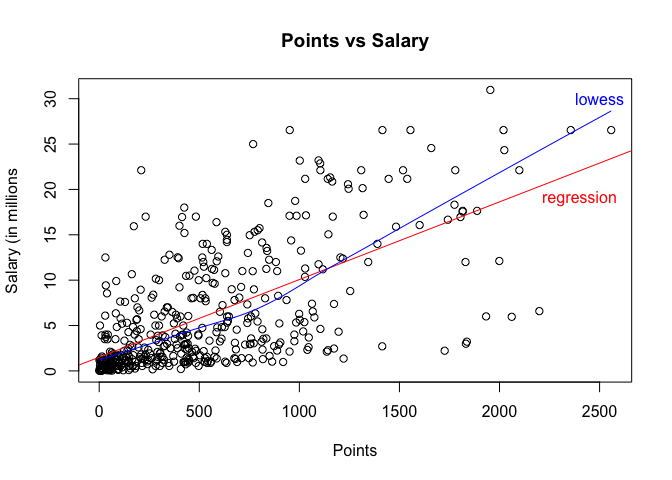
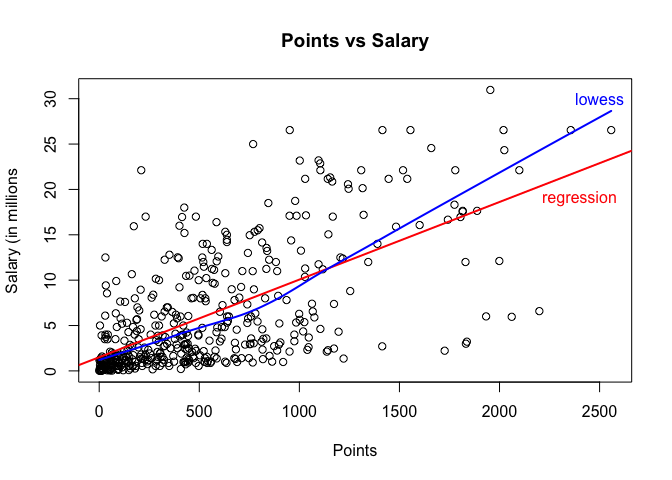
final

diff --git a/hw01/hw01-deborah-chang.md b/hw01/hw01-deborah-chang.md
@@ -2,13 +2,6 @@ HW01
 ================
 Deborah Chang
 
-```{r setup, include=FALSE}
-knitr::opts_chunk$set(error = TRUE)
-load("data/nba2017-salary-points.RData")
-# list available objects
-ls()
-library(scatterplot3d)
-```
 ### 1) A bit of data preprocessing
 
 ``` r
@@ -26,7 +19,7 @@ table(factored)
 ### 2) Scatterplot of Points and Salary
 
 ``` r
-plot(points, salaryMil, main = "Points vs Salary", xlab = "Points", ylab = "Salary")
+plot(points, salaryMil, main = "Points vs Salary", xlab = "Points", ylab = "Salary (in millions)")
 ```
 
 ![](hw01-deborah-chang_files/figure-markdown_github-ascii_identifiers/unnamed-chunk-2-1.png)
@@ -153,8 +146,8 @@ The slope coefficient displays the rate at which salary increases by a number of
 
 ``` r
 plot(points, salaryMil, main = "Points vs Salary", xlab = "Points", ylab = "Salary (in millions")
-abline(lm(salaryMil~points), col = "red")
-lines(lowess(points, salaryMil), col = "blue")
+abline(lm(salaryMil~points), col = "red", lwd = 2)
+lines(lowess(points, salaryMil), col = "blue", lwd = 2)
 text(2400, 19, labels = "regression", col = "red")
 text(2500, 30, labels = "lowess", col = "blue")
 ```
@@ -164,34 +157,34 @@ text(2500, 30, labels = "lowess", col = "blue")
 ### 6) Regression residuals and Coefficient of Determination
 
 ``` r
-residuals <- salary - yHat
+residuals <- salaryMil - yHat
 summary(residuals)
 ```
 
-    ##     Min.  1st Qu.   Median     Mean  3rd Qu.     Max. 
-    ##     5143  1286157  3499998  6187008  9249992 30963432
+    ##    Min. 1st Qu.  Median    Mean 3rd Qu.    Max. 
+    ## -14.190  -2.794  -1.095   0.000   2.555  18.810
 
 ``` r
 RSS <- sum((residuals)^2)
 RSS
 ```
 
-    ## [1] 3.588454e+16
+    ## [1] 11299.62
 
 ``` r
-SquaredSal <- (salary - averageSalary)^2
+SquaredSal <- (salaryMil - averageSalary)^2
 TSS <- sum(SquaredSal)
 TSS
 ```
 
-    ## [1] 3.588455e+16
+    ## [1] 19003.48
 
 ``` r
 Rsquare <- 1- (RSS/TSS)
 Rsquare
 ```
 
-    ## [1] 4.293693e-07
+    ## [1] 0.4053923
 
 ### 7) Exploring Position and Experience
 
@@ -200,7 +193,7 @@ Rsquare
 ``` r
 RExp <- replace(experience, experience == "R", 0)
 IntExp <- as.integer(RExp)
-plot(IntExp, salaryMil, main = "Experience vs Salary", xlab = "Experience", ylab = "Salary (in millions")
+plot(IntExp, salaryMil, main = "Experience vs Salary", xlab = "Experience", ylab = "Salary (in millions)")
 lines(lowess(IntExp, salaryMil), col = "blue")
 text(15, 8, labels = "lowess", col = "blue")
 ```
